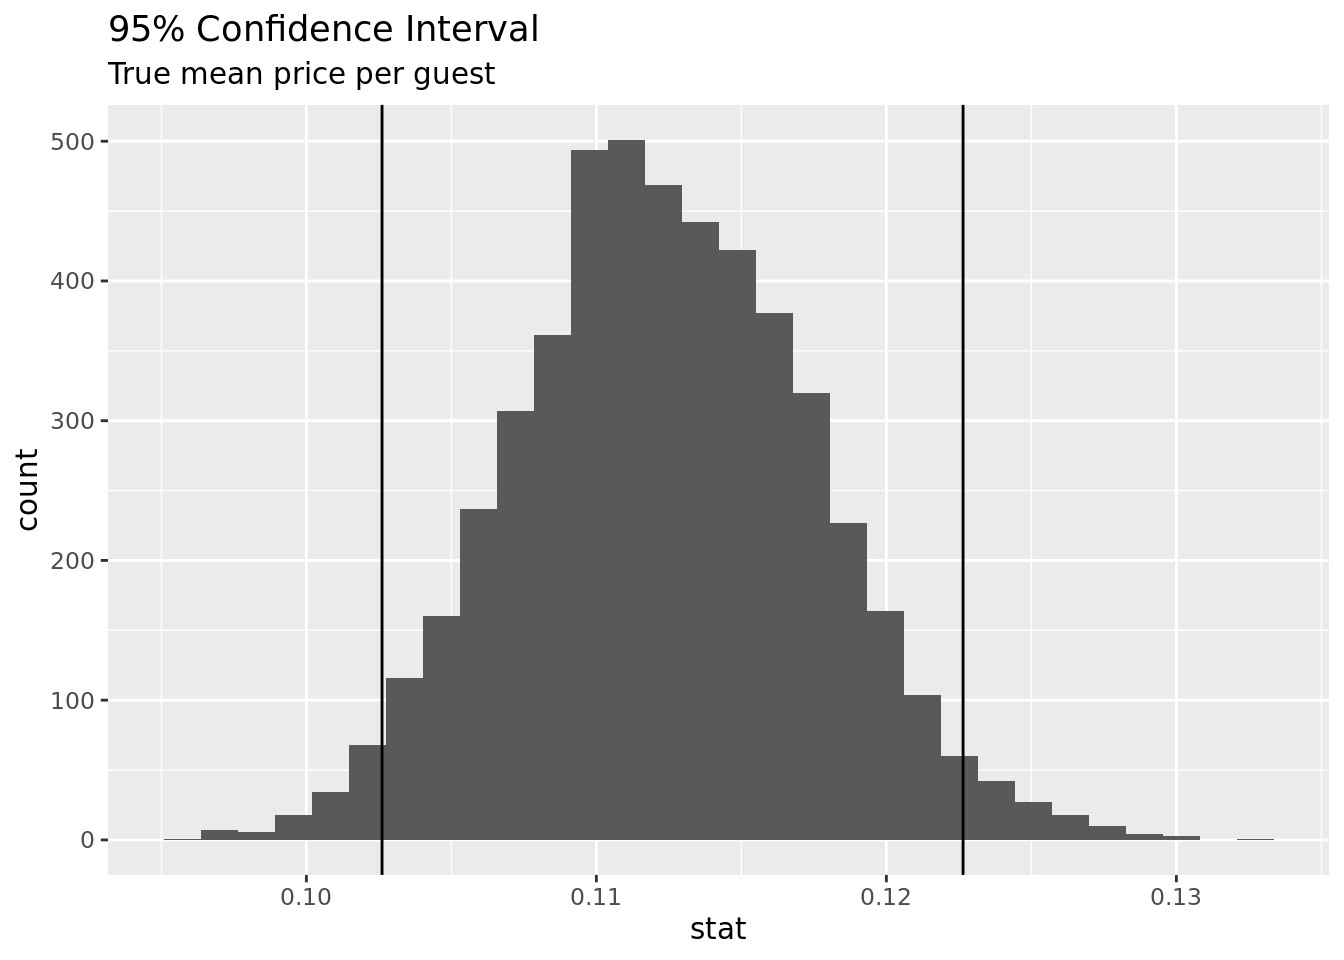
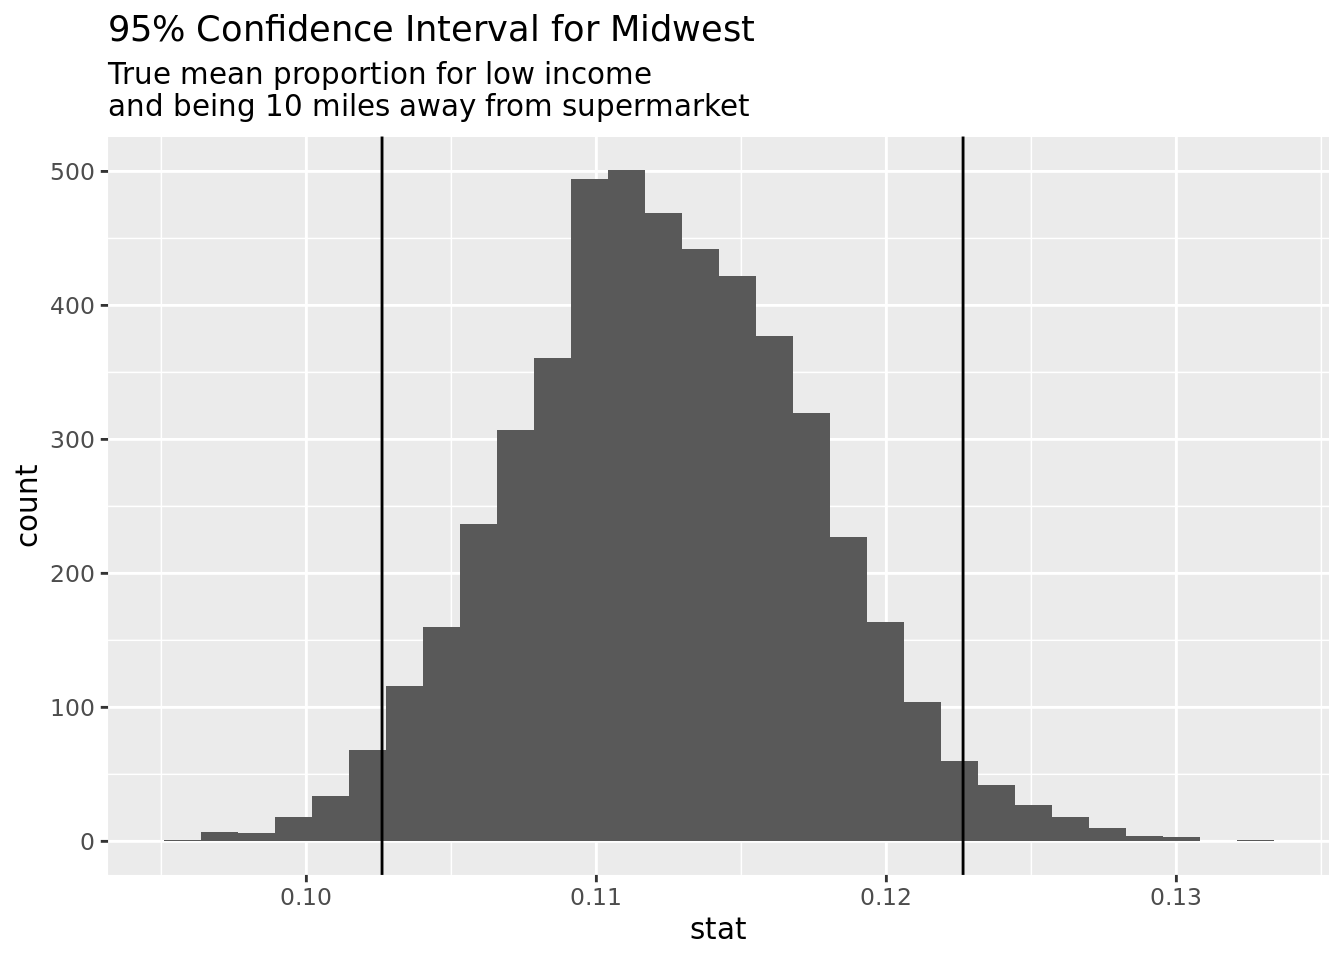
changed question and fixed formatting

diff --git a/docs/report.html b/docs/report.html
@@ -139,10 +139,9 @@ ul.task-list li input[type="checkbox"] {
 <h2 class="anchored" data-anchor-id="introduction-and-data">Introduction and Data</h2>
 <p>We are interested in the topic of food accessibility (defined as the ability to access healthy and affordable foods) in the US and how factors such as family income, vehicle availability, and neighborhood characteristics such as average income and availability of public transportation impact food accessibility. Our data is from the United States Department of Agriculture’s Economic Research Service, which contains information about US county’s ability to access supermarkets. Though there is no available information on how the USDA ERS collected this particular data set, the USDA ERS generally collects data in the following ways: surveys, administrative data, census data, and remote sensing. Given the variables of the food access data, it is likely that the USDA ERS used a combination of surveys and census data to collect information. This data set contains information about people’s ability to access supermarkets in the US. There are multiple factors that are taken into account. Each of these factors negatively or positively affects people’s ability to access a supermarket. Some people live further away or closer to supermarkets, have cars, have higher income, and are of different age demographics. Each of these factors contribute to differences in food accessibility.</p>
 <p>Background on the Topic of Food Insecurity: (https://health.gov/healthypeople/priority-areas/social-determinants-health/literature-summaries/food-insecurity). This article talks about food insecurity, which is a condition in which someone has limited access to adequate food. A lot of households are affected by this. It can be long-term or temporary and is influenced a variety of factors, such as by income, employment, race/ethnicity, and disability. High unemployment rates in low-income populations make it even more difficult to have sufficient food access. In 2020, Black households’ food insecurity percentage was 21.7, which was 2 times greater than the national average. Possible reasons include neighborhood conditions, physical access to food, and lack of transportation. People who live in low-income neighborhoods may have less access to supermarkets. Predominantly Black and Hispanic neighborhoods have fewer high-quality markets than predominantly white neighborhoods. Food insecurity could lead to negative health problems and there are studies which demonstrate how food insecurity may increase risk for obesity and developmental/ mental health problems in children.</p>
-<p>Research Question: Is the Midwest more impacted by being low income and being beyond 10 miles from a supermarket compared to the Northeast? If there is a difference between those two regions, and what variables contribute to that?</p>
 <p>Definitions of Key Variables: County: County Name Population: Population Count from 2010 Census State: State Name Housing Data. Total Housing Units: Occupied Housing Unit Count from 2010 Census Vehicle Access. 10 Miles: Housing Units without Vehicle Count Beyond 10 Miles from Supermarket Low Access Numbers.Low Income People. 10 Miles: Low income population count beyond 10 miles from supermarket Low Access Numbers.People.10 Miles: Population count beyond 10 miles from supermarket Low.Access Numbers.Seniors.10 Miles: Seniors population count beyond 10 miles from supermarket. There are a mix of quantitative and qualitative variables.</p>
 <p>Research Question:</p>
-<p><strong>Is the Midwest more impacted by being low income and being beyond 10 miles from a supermarket compared to the Northeast?</strong> If there is a difference between those two regions, and if so, what variables contribute to that? Our target population for this question are individuals living in the Northeast and Midwest area of the US, as the Northeast is generally more urban and the Midwest is generally more rural and agricultural-based. We hope to bring awareness to potentially significant differences in food access because everyone should have access across the US, regardless of geographic location. This question is original because it is focusing on a “10 mile” range specifically. This research question will be answered using a hypothesis test and confidence intervals. <strong>Given our background research on the Midwest and the Northeast regions, we hypothesize that the Midwest will be mostly impacted by having a greater proportion of low income population count beyond 10 miles from supermarkets.</strong> We will conduct a hypothesis test to test this hypothesis. We are also exploring an additional question to support our hypothesis test: What is the confidence interval for the true mean proportion of low income individuals that live beyond 10 miles from a supermarket in the Northeast? In the Midwest?</p>
+<p><strong>Does the Midwest or Northeast have a higher amount of individuals who have low access to super markets and have low income and are beyond 10 miles away from a supermarket? Which specific variables contribute to this difference?</strong> Our target population for this question are individuals living in the Northeast and Midwest area of the US, as the Northeast is generally more urban and the Midwest is generally more rural and agricultural-based. We hope to bring awareness to potentially significant differences in food access because everyone should have access across the US, regardless of geographic location. This question is original because it is focusing on a “10 mile” range specifically. This research question will be answered using a hypothesis test and confidence intervals. <strong>Given our background research on the Midwest and the Northeast regions, we hypothesize that the Midwest will be mostly impacted by having a greater proportion of low income population count beyond 10 miles from supermarkets.</strong> We will conduct a hypothesis test to test this hypothesis. We are also exploring an additional question to support our hypothesis test: What is the confidence interval for the true mean proportion of low income individuals that live beyond 10 miles from a supermarket in the Northeast? In the Midwest?</p>
 <p>Data cleaning: We first mutated the data set to categorize each state into their respective region (Midwest, Northeast, Southwest, Southeast, and West). We also mutated the data to include the proportion of low income population count beyond 10 miles from supermarket, the proportion of housing units without vehicle count beyond 10 miles from supermarket.</p>
 <div class="cell">
 <div class="cell-output cell-output-stdout">
@@ -240,8 +239,7 @@ $ `Low Access Numbers.Seniors.20 Miles`           &lt;dbl&gt; 0, 0, 0, 0, 0, 0, 
 <section id="methodology" class="level2">
 <h2 class="anchored" data-anchor-id="methodology">Methodology</h2>
 <p>First, in order to clean our data and prep for the data analysis and models, different region vectors were created in order to merge with the original food_access datasets. Since our research question involves regions and the original datasets does not include that, multiple mutate with case_when was used to clean and modify the data.</p>
-<p>In order to explore the basic relationships, first some exploratory data analysis was conducted to see which specific states in the regions our research question was exploring. By quantifying and visualizing the relationship between the variables in the Midwest and Northeast, the sample mean difference is extracted from the given regions. This is used to run a hypothesis test in order to answer our research question. [CONFUSING EDIT With a null distribution and p-value either reject or fail to reject the null hypothesis of no difference between the two regions.] This would help answer our research question as it would show which region is impacted more by taking the mean of the proportions of low income people 10 miles away from the supermarket without a vehicle. Based on the results of the hypothesis test, we run a confidence interval in order to see where the true mean lies in each region.</p>
-<p>In order to find which variables contribute to the Midwest region being more impacted by low income and no transportation, a linear regression model is used as the low income people without vehicle access beyond 10 miles from a supermarket is the explanatory, and the number of people living in housing quarters as the response variable. This would be the best variable to use in the linear regression because the other data refers to children, seniors, and other varying amounts of vehicle distance. Therefore, housing group quarters population would be the best variable to use in this linear regression model and would help solidify the second part of the research question.</p>
+<p>In order to explore the basic relationships, first some exploratory data analysis was conducted to see which specific states in the regions our research question was exploring. By quantifying and visualizing the relationship between the variables in the Midwest and Northeast, the sample mean difference is extracted from the given regions. This is used to run a hypothesis test in order to answer our research question. [CONFUSING EDIT With a null distribution and p-value either reject or fail to reject the null hypothesis of no difference between the two regions.] This would help answer our research question as it would show which region is impacted more by taking the mean of the proportions of low income people 10 miles away from the supermarket without a vehicle. Based on the results of the hypothesis test, we run a confidence interval in order to see where the true mean proportion lies in each region.</p>
 <p>We choose a hypothesis test because it helps answer our research question if the Northwest or Northeast is more impacted by being low income and living 10 miles away from a supermarket. We hypothesize that compared to the Northeast, the Midwest will be mostly impacted by having a greater proportion of low income population count beyond 10 miles from supermarket. Our null hypothesis is that the true mean proportional difference for low income and beyond 10 miles from the supermarket between the Midwest and Northeast is equal to 0. Our alternate hypothesis is that the true mean proportional difference for low income and beyond 10 miles from the supermarket between the Midwest and northeast is greater than 0. Using the resulting p-values from our test, we can see if the Midwest is more impacted or if there is no difference between the two. We will be using simulation based techniques. We will permute all observations together, distribute them into two new groups, calculate the new sample means for each group, and lastly subtract the new sample means. This will be done 5000 times.</p>
 <p><span class="math inline">\(H_o\)</span>: <span class="math inline">\(\mu_{Midwest} - \mu_{Northeast} = 0\)</span></p>
 <p>Null Hypothesis: The true mean proportional difference for low income and beyond 10 miles from the supermarket between the Midwest and northeast is equal to 0.</p>
@@ -284,9 +282,9 @@ $ `Low Access Numbers.Seniors.20 Miles`           &lt;dbl&gt; 0, 0, 0, 0, 0, 0, 
 1       0</code></pre>
 </div>
 </div>
-<p>Conclusion: The probability of observing a true mean proportional difference of 0.09569124 between the Midwest and the Northeast for low income population count beyond 10 miles from the supermarket is equal to 0, given that the true mean proportional difference for low income and beyond 10 miles from the supermarket between the Midwest and Northeast is equal to 0 the difference is equal to 0. Because p = ~ 0 alpha = .05, we reject the null hypothesis. We have strong evidence to conclude the alternate hypothesis. Based on this test, we can answer our research question and conclude that the Midwest is more impacted than the Northeast for low income and being beyond 10 miles from a supermarket.</p>
+<p>Conclusion: The probability of observing a true mean proportional difference of 0.09569124 between the Midwest and the Northeast for low income population count beyond 10 miles from the supermarket is ~ 0, given that the true mean proportional difference for low income and beyond 10 miles from the supermarket between the Midwest and Northeast is equal to 0 the difference is equal to 0. Because p = ~ 0 alpha = .05, we reject the null hypothesis. We have strong evidence to conclude the alternate hypothesis. Based on this test, we can answer our research question and conclude that the Midwest has a higher amount of individuals who are low income and beyond 10 miles away from a supermarket.</p>
 <p><strong>Confidence Interval: True mean proportion for Midwest</strong></p>
-<p>After our result from the hypothesis test, we wanted to further support that the Midwest is more impacted than the Northeast. Therefore, we will be creating two confidence intervals to determine the true mean proportion for low income and living 10 miles beyond a supermarkets. We will then compare these intervals. The interval with a higher proportion interval will be the most impacted by being low income and living 10 miles beyond a supermarket. We will be used simulation based techniques because we are sampling with replacement, calculating the new resampled mean, and then we will be repeat that process 5000 times.</p>
+<p>After our result from the hypothesis test, we wanted to further support that the Midwest is more impacted than the Northeast. Therefore, we will be creating two confidence intervals to determine the true mean proportion for low income and living 10 miles beyond a supermarkets. We will then compare these intervals. The interval with a higher proportion interval will have a higher amount of individuals who are low income and live 10 miles beyond a supermarket. We will be used simulation based techniques because we are sampling with replacement, calculating the new resampled mean, and then we will be repeat that process 5000 times.</p>
 <div class="cell">
 <div class="cell-output cell-output-stdout">
 <pre><code>Rows: 5,000
@@ -355,7 +353,7 @@ $ stat      &lt;dbl&gt; 0.01381593, 0.01676433, 0.01266810, 0.01101073, 0.010927
 <pre><code>[1] 0.8715612</code></pre>
 </div>
 </div>
-<p>After seeing the results to our hypothesis test and CI, we conclude that the Midwest is more impacted by low income and being 10 miles away. We used a linear regression to see which variables affect that. We choose the variables proportion of seniors and no vehicle access being 10 miles away. First, we fit those variables individually. Then we looked at their adjusted r-squared values. The linear regression with the proportion of seniors had a higher adjusted r-squared value. So then we included an additive and interactive component with the proportion of having no vehicle access. The interactive model had a higher adjusted r-squared value.</p>
+<p>After seeing the results to our hypothesis test and CI, we conclude that the Midwest has a higher amount of individuals who are low income and 10 miles beyond a supermarket. We used a linear regression to see which variables affect that, which answers the second part of our research question. We choose the variables proportion of seniors and no vehicle access being 10 miles away. First, we fit those variables individually. Then we looked at their adjusted r-squared values. The linear regression with the proportion of seniors had a higher adjusted r-squared value. So then we included an additive and interactive component with the proportion of having no vehicle access. The interactive model had a higher adjusted r-squared value.</p>
 </section>
 </section>
 <section id="results" class="level2">
